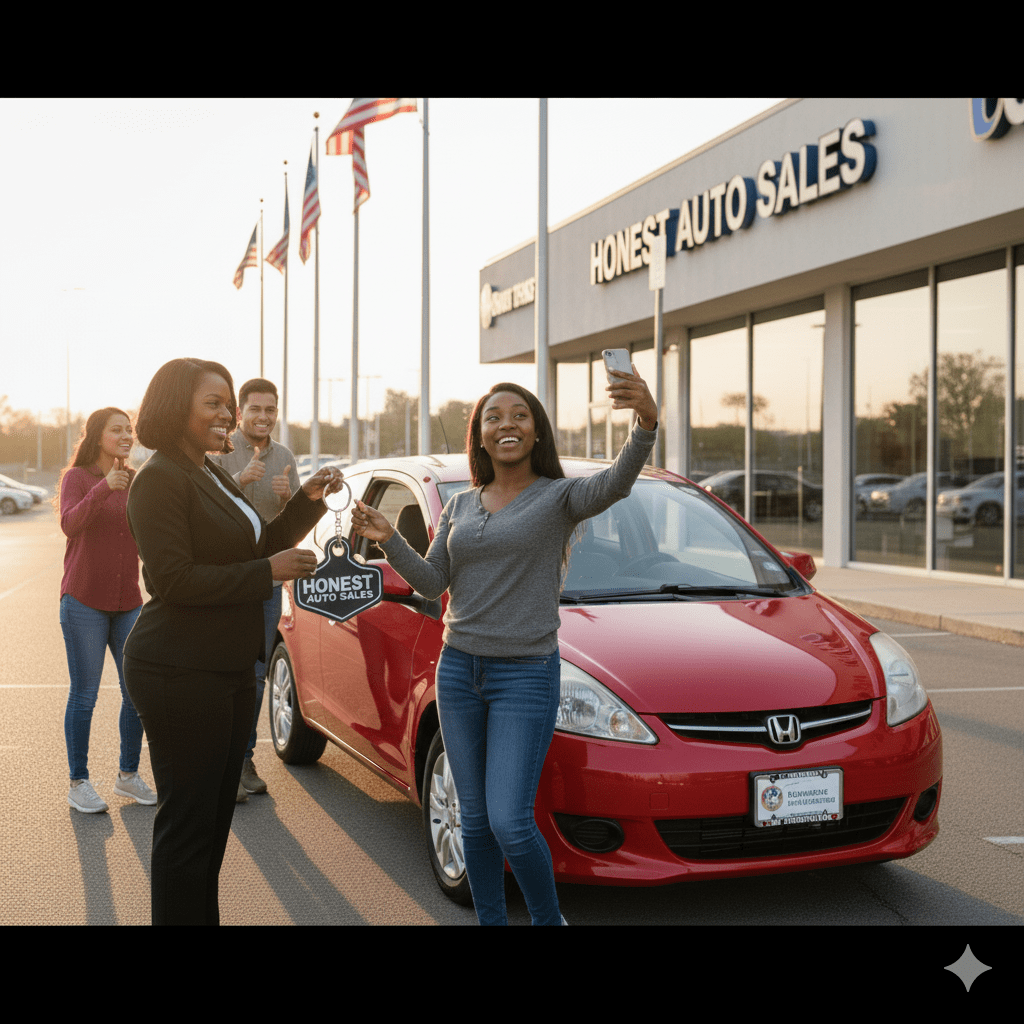
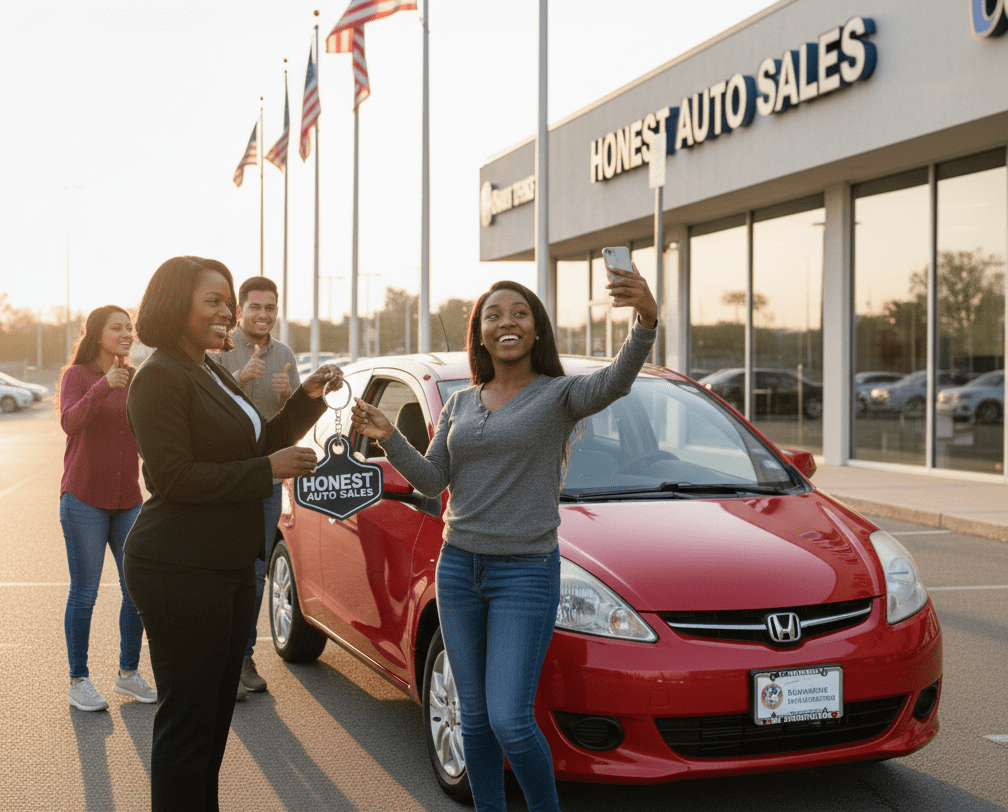
adding

diff --git a/components/landingpage/customers.jsx b/components/landingpage/customers.jsx
@@ -17,6 +17,7 @@ export const playfair = Playfair_Display({
     preload: true,    // ✅ ensures font is preloaded
 });
 
+
 export default function Customerstories() {
   const images= [
       "/Gemini_Generated_Image_d4kzc5d4kzc5d4kz-min.png",
@@ -25,6 +26,8 @@ export default function Customerstories() {
       "/Gemini_Generated_Image_qyew7oqyew7oqyew-min.png",
       "/Gemini_Generated_Image_yw7blcyw7blcyw7b-min.png",
     ]
+
+    const clientInfo = useClientStore((state) => state.clientInfo);
 
     return (
         <section className='relative w-full mt-20 mb-3 px-3 md:px-10'>
